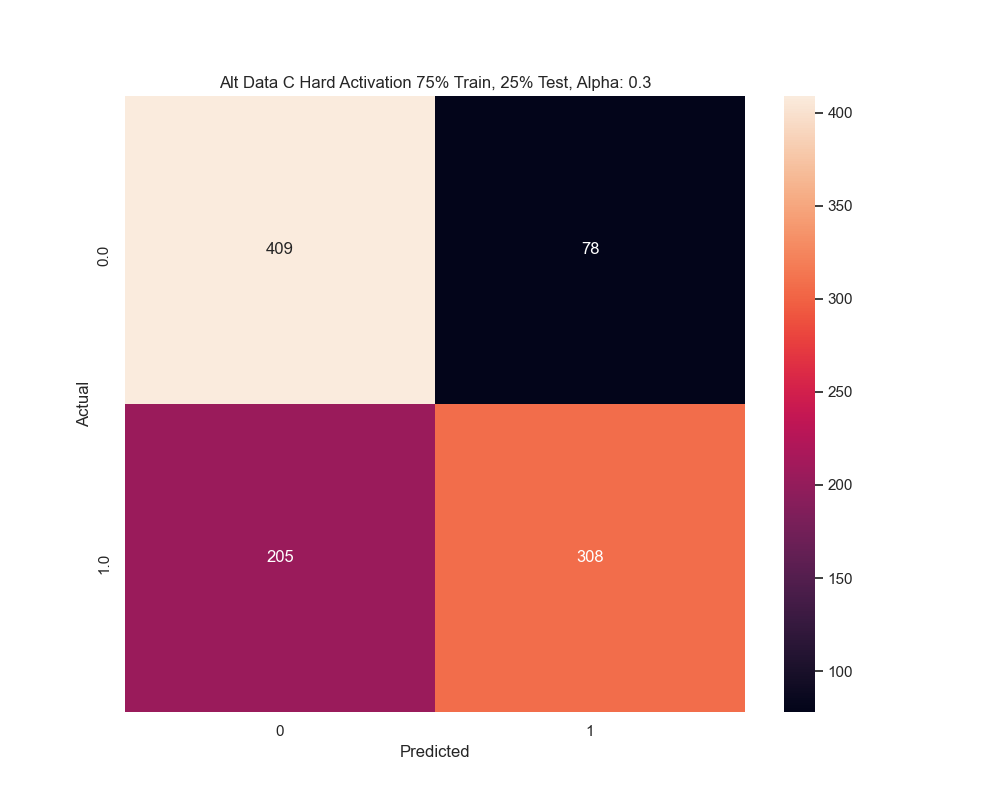
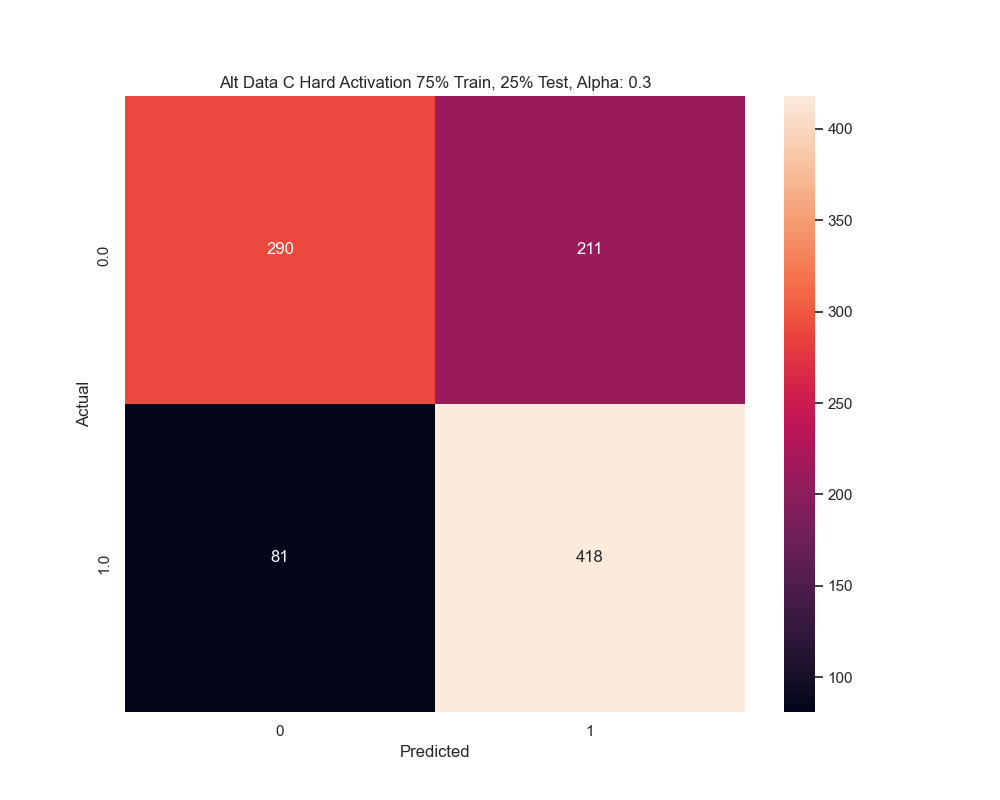
adding group c and alt c

diff --git a/assignment2.py b/assignment2.py
@@ -89,7 +89,7 @@ def train_hard(input_arr, desired_out, alpha, epsilon, max_iterations):
     y_w = random.uniform(-.5, .5)
     x_w = random.uniform(-.5, .5)
     b = random.uniform(-.5, .5)
-    #weights = [-.5, -.5, .5]
+    # weights = [-.5, -.5, .5]
     weights = [y_w, x_w, b]
     original_weights = weights
     train_error = 0
@@ -117,7 +117,7 @@ def train_soft(input_arr, desired_out, alpha, epsilon, max_iterations, gain):
     y_w = random.uniform(-.5, .5)
     x_w = random.uniform(-.5, .5)
     b = random.uniform(-.5, .5)
-    #weights = [-.5, -.5, .5]
+    # weights = [-.5, -.5, .5]
     weights = [y_w, x_w, b]
     original_weights = weights
     train_error = 0
@@ -337,26 +337,26 @@ def confusion_matrix(title, predicted, actual):
     # plt.close()
 
 
-groupa_hard_75, groupa_hard_75_train, groupa_hard_75_test, groupa_hard_75_out, train, test = normalize_and_train_hard(
-    "Group A", a_25, a_75, 0.3, epsilon_a, max_iterations, .25)
-groupa_hard_25, groupa_hard_25_train, groupa_hard_25_test, groupa_hard_25_out, train, test = normalize_and_train_hard(
-    "Group A", a_75, a_25, 0.3, epsilon_a, max_iterations, .75)
-pred, testOut = test_hard(
-    groupa_hard_75, groupa_hard_75_test, groupa_hard_75_out)
-graph_results("[Training] Group A Hard Activation 75% Train, 25% Test, Alpha: 0.3",
-              train, groupa_hard_75)
-graph_results("[Testing] Group A Hard Activation 75% Train, 25% Test, Alpha: 0.3",
-              test, groupa_hard_75)
-confusion_matrix(
-    "Group A Hard Activation 75% Train, 25% Test, Alpha: 0.3", pred, testOut)
-pred, testOut = test_hard(
-    groupa_hard_25, groupa_hard_25_test, groupa_hard_25_out)
-graph_results("[Training] Group A Hard Activation 25% Train, 75% Test, Alpha: 0.3",
-              train, groupa_hard_25)
-graph_results("[Testing] Group A Hard Activation 25% Train, 75% Test, Alpha: 0.3",
-              test, groupa_hard_25)
-confusion_matrix(
-    "Group A Hard Activation 25% Train, 75% Test, Alpha: 0.3", pred, testOut)
+# groupa_hard_75, groupa_hard_75_train, groupa_hard_75_test, groupa_hard_75_out, train, test = normalize_and_train_hard(
+#     "Group A", a_25, a_75, 0.3, epsilon_a, max_iterations, .25)
+# groupa_hard_25, groupa_hard_25_train, groupa_hard_25_test, groupa_hard_25_out, train, test = normalize_and_train_hard(
+#     "Group A", a_75, a_25, 0.3, epsilon_a, max_iterations, .75)
+# pred, testOut = test_hard(
+#     groupa_hard_75, groupa_hard_75_test, groupa_hard_75_out)
+# graph_results("[Training] Group A Hard Activation 75% Train, 25% Test, Alpha: 0.3",
+#               train, groupa_hard_75)
+# graph_results("[Testing] Group A Hard Activation 75% Train, 25% Test, Alpha: 0.3",
+#               test, groupa_hard_75)
+# confusion_matrix(
+#     "Group A Hard Activation 75% Train, 25% Test, Alpha: 0.3", pred, testOut)
+# pred, testOut = test_hard(
+#     groupa_hard_25, groupa_hard_25_test, groupa_hard_25_out)
+# graph_results("[Training] Group A Hard Activation 25% Train, 75% Test, Alpha: 0.3",
+#               train, groupa_hard_25)
+# graph_results("[Testing] Group A Hard Activation 25% Train, 75% Test, Alpha: 0.3",
+#               test, groupa_hard_25)
+# confusion_matrix(
+#     "Group A Hard Activation 25% Train, 75% Test, Alpha: 0.3", pred, testOut)
 
 # groupb_hard_75, groupb_hard_75_train, groupb_hard_75_test, groupb_hard_75_out, train, test = normalize_and_train_hard(
 #     "Group B", df_b, 0.3, epsilon_b, max_iterations, .25)
@@ -463,47 +463,47 @@ graph_results("[Testing] Group C Soft Activation 25% Train, 75% Test, Alpha: 0.1
 confusion_matrix(
     "Group C Soft Activation 25% Train, 75% Test, Alpha: 0.1, Gain: 0.1", pred, testOut)
 
-alta_hard_75, alta_hard_75_train, alta_hard_75_test, alta_hard_75_out, train, test = normalize_and_train_hard(
-    "Alt A", df_alt_a, 0.3, epsilon_a, max_iterations, .25)
-alta_hard_25, alta_hard_25_train, alta_hard_25_test, alta_hard_25_out, train, test = normalize_and_train_hard(
-    "Alt A", df_alt_a, 0.3, epsilon_a, max_iterations, .75)
-pred, testOut = test_hard(
-    alta_hard_75, alta_hard_75_test, alta_hard_75_out)
-graph_results("[Training] Alt Data A Hard Activation 75% Train, 25% Test, Alpha: 0.3",
-              train, alta_hard_75)
-graph_results("[Testing] Alt Data A Hard Activation 75% Train, 25% Test, Alpha: 0.3",
-              test, alta_hard_75)
-confusion_matrix(
-    "Alt Data A Hard Activation 75% Train, 25% Test, Alpha: 0.3", pred, testOut)
-pred, testOut = test_hard(
-    alta_hard_25, alta_hard_25_test, alta_hard_25_out)
-graph_results("[Training] Alt Data A Hard Activation 25% Train, 75% Test, Alpha: 0.3",
-              train, alta_hard_25)
-graph_results("[Testing] Alt Data A Hard Activation 25% Train, 75% Test, Alpha: 0.3",
-              test, alta_hard_25)
-confusion_matrix(
-    "Alt Data A Hard Activation 25% Train, 75% Test, Alpha: 0.3", pred, testOut)
+# alta_hard_75, alta_hard_75_train, alta_hard_75_test, alta_hard_75_out, train, test = normalize_and_train_hard(
+#     "Alt A", df_alt_a, 0.3, epsilon_a, max_iterations, .25)
+# alta_hard_25, alta_hard_25_train, alta_hard_25_test, alta_hard_25_out, train, test = normalize_and_train_hard(
+#     "Alt A", df_alt_a, 0.3, epsilon_a, max_iterations, .75)
+# pred, testOut = test_hard(
+#     alta_hard_75, alta_hard_75_test, alta_hard_75_out)
+# graph_results("[Training] Alt Data A Hard Activation 75% Train, 25% Test, Alpha: 0.3",
+#               train, alta_hard_75)
+# graph_results("[Testing] Alt Data A Hard Activation 75% Train, 25% Test, Alpha: 0.3",
+#               test, alta_hard_75)
+# confusion_matrix(
+#     "Alt Data A Hard Activation 75% Train, 25% Test, Alpha: 0.3", pred, testOut)
+# pred, testOut = test_hard(
+#     alta_hard_25, alta_hard_25_test, alta_hard_25_out)
+# graph_results("[Training] Alt Data A Hard Activation 25% Train, 75% Test, Alpha: 0.3",
+#               train, alta_hard_25)
+# graph_results("[Testing] Alt Data A Hard Activation 25% Train, 75% Test, Alpha: 0.3",
+#               test, alta_hard_25)
+# confusion_matrix(
+#     "Alt Data A Hard Activation 25% Train, 75% Test, Alpha: 0.3", pred, testOut)
 
-altb_hard_75, altb_hard_75_train, altb_hard_75_test, altb_hard_75_out, train, test = normalize_and_train_hard(
-    "Alt B", df_alt_b, 0.3, epsilon_b, max_iterations, .25)
-altb_hard_25, altb_hard_25_train, altb_hard_25_test, altb_hard_25_out, train, test = normalize_and_train_hard(
-    "Alt B", df_alt_b, 0.3, epsilon_b, max_iterations, .75)
-pred, testOut = test_hard(
-    altb_hard_75, altb_hard_75_test, altb_hard_75_out)
-graph_results("[Training] Alt Data B Hard Activation 75% Train, 25% Test, Alpha: 0.3",
-              train, altb_hard_75)
-graph_results("[Testing] Alt Data B Hard Activation 75% Train, 25% Test, Alpha: 0.3",
-              test, altb_hard_75)
-confusion_matrix(
-    "Alt Data B Hard Activation 75% Train, 25% Test, Alpha: 0.3", pred, testOut)
-pred, testOut = test_hard(
-    altb_hard_25, altb_hard_25_test, altb_hard_25_out)
-graph_results("[Training] Alt Data B Hard Activation 25% Train, 75% Test, Alpha: 0.3",
-              train, altb_hard_25)
-graph_results("[Testing] Alt Data B Hard Activation 25% Train, 75% Test, Alpha: 0.3",
-              test, altb_hard_25)
-confusion_matrix(
-    "Alt Data B Hard Activation 25% Train, 75% Test, Alpha: 0.3", pred, testOut)
+# altb_hard_75, altb_hard_75_train, altb_hard_75_test, altb_hard_75_out, train, test = normalize_and_train_hard(
+#     "Alt B", df_alt_b, 0.3, epsilon_b, max_iterations, .25)
+# altb_hard_25, altb_hard_25_train, altb_hard_25_test, altb_hard_25_out, train, test = normalize_and_train_hard(
+#     "Alt B", df_alt_b, 0.3, epsilon_b, max_iterations, .75)
+# pred, testOut = test_hard(
+#     altb_hard_75, altb_hard_75_test, altb_hard_75_out)
+# graph_results("[Training] Alt Data B Hard Activation 75% Train, 25% Test, Alpha: 0.3",
+#               train, altb_hard_75)
+# graph_results("[Testing] Alt Data B Hard Activation 75% Train, 25% Test, Alpha: 0.3",
+#               test, altb_hard_75)
+# confusion_matrix(
+#     "Alt Data B Hard Activation 75% Train, 25% Test, Alpha: 0.3", pred, testOut)
+# pred, testOut = test_hard(
+#     altb_hard_25, altb_hard_25_test, altb_hard_25_out)
+# graph_results("[Training] Alt Data B Hard Activation 25% Train, 75% Test, Alpha: 0.3",
+#               train, altb_hard_25)
+# graph_results("[Testing] Alt Data B Hard Activation 25% Train, 75% Test, Alpha: 0.3",
+#               test, altb_hard_25)
+# confusion_matrix(
+#     "Alt Data B Hard Activation 25% Train, 75% Test, Alpha: 0.3", pred, testOut)
 
 altc_hard_75, altc_hard_75_train, altc_hard_75_test, altc_hard_75_out, train, test = normalize_and_train_hard(
     "Alt C", alt_c_25, alt_c_75, 0.3, epsilon_c, max_iterations, .25)
@@ -526,47 +526,47 @@ graph_results("[Testing] Alt Data C Hard Activation 25% Train, 75% Test, Alpha: 
 confusion_matrix(
     "Alt Data C Hard Activation 25% Train, 75% Test, Alpha: 0.3", pred, testOut)
 
-alta_soft_75, alta_soft_75_train, alta_soft_75_test, alta_soft_75_out, gainA_75, train, test = normalize_and_train_soft(
-    "AltA", df_alt_a, 0.3, epsilon_a, max_iterations, .2, .25)
-alta_soft_25, alta_soft_25_train, alta_soft_25_test, alta_soft_25_out, gainB_25, train, test = normalize_and_train_soft(
-    "AltA", df_alt_a, 0.3, epsilon_a, max_iterations, .2, .75)
-pred, testOut = test_soft(
-    alta_soft_75, alta_soft_75_test, alta_soft_75_out, gainA_75)
-graph_results("[Training] Alt Data A Soft Activation 75% Train, 25% Test, Alpha: 0.3, Gain: 0.2",
-              train, alta_soft_75)
-graph_results("[Testing] Alt Data A Soft Activation 75% Train, 25% Test, Alpha: 0.3, Gain: 0.2",
-              test, alta_soft_75)
-confusion_matrix(
-    "Alt Data A Soft Activation 75% Train, 25% Test, Alpha: 0.3, Gain: 0.2", pred, testOut)
-pred, testOut = test_soft(
-    alta_soft_25, alta_soft_25_test, alta_soft_25_out, gainB_25)
-graph_results("[Training] Alt Data A Soft Activation 25% Train, 75% Test, Alpha: 0.3, Gain: 0.2",
-              train, alta_soft_25)
-graph_results("[Testing] Alt Data A Soft Activation 25% Train, 75% Test, Alpha: 0.3, Gain: 0.2",
-              test, alta_soft_25)
-confusion_matrix(
-    "Alt Data A Soft Activation 25% Train, 75% Test, Alpha: 0.3, Gain: 0.2", pred, testOut)
+# alta_soft_75, alta_soft_75_train, alta_soft_75_test, alta_soft_75_out, gainA_75, train, test = normalize_and_train_soft(
+#     "AltA", df_alt_a, 0.3, epsilon_a, max_iterations, .2, .25)
+# alta_soft_25, alta_soft_25_train, alta_soft_25_test, alta_soft_25_out, gainB_25, train, test = normalize_and_train_soft(
+#     "AltA", df_alt_a, 0.3, epsilon_a, max_iterations, .2, .75)
+# pred, testOut = test_soft(
+#     alta_soft_75, alta_soft_75_test, alta_soft_75_out, gainA_75)
+# graph_results("[Training] Alt Data A Soft Activation 75% Train, 25% Test, Alpha: 0.3, Gain: 0.2",
+#               train, alta_soft_75)
+# graph_results("[Testing] Alt Data A Soft Activation 75% Train, 25% Test, Alpha: 0.3, Gain: 0.2",
+#               test, alta_soft_75)
+# confusion_matrix(
+#     "Alt Data A Soft Activation 75% Train, 25% Test, Alpha: 0.3, Gain: 0.2", pred, testOut)
+# pred, testOut = test_soft(
+#     alta_soft_25, alta_soft_25_test, alta_soft_25_out, gainB_25)
+# graph_results("[Training] Alt Data A Soft Activation 25% Train, 75% Test, Alpha: 0.3, Gain: 0.2",
+#               train, alta_soft_25)
+# graph_results("[Testing] Alt Data A Soft Activation 25% Train, 75% Test, Alpha: 0.3, Gain: 0.2",
+#               test, alta_soft_25)
+# confusion_matrix(
+#     "Alt Data A Soft Activation 25% Train, 75% Test, Alpha: 0.3, Gain: 0.2", pred, testOut)
 
-altb_soft_75, altb_soft_75_train, altb_soft_75_test, altb_soft_75_out, gainB_75, train, test = normalize_and_train_soft(
-    "AltB", df_alt_b, 0.3, epsilon_b, max_iterations, .2, .25)
-altb_soft_25, altb_soft_25_train, altb_soft_25_test, altb_soft_25_out, gainB_25, train, test = normalize_and_train_soft(
-    "AltB", df_alt_b, 0.3, epsilon_b, max_iterations, .2, .75)
-pred, testOut = test_soft(
-    altb_soft_75, altb_soft_75_test, altb_soft_75_out, gainB_75)
-graph_results("[Training] Alt Data B Soft Activation 75% Train, 25% Test, Alpha: 0.3, Gain: 0.2",
-              train, altb_soft_75)
-graph_results("[Testing] Alt Data B Soft Activation 75% Train, 25% Test, Alpha: 0.3, Gain: 0.2",
-              test, altb_soft_75)
-confusion_matrix(
-    "Alt Data B Soft Activation 75% Train, 25% Test, Alpha: 0.3, Gain: 0.2", pred, testOut)
-pred, testOut = test_soft(
-    altb_soft_25, altb_soft_25_test, altb_soft_25_out, gainB_25)
-graph_results("[Training] Alt Data B Soft Activation 25% Train, 25% Test, Alpha: 0.3, Gain: 0.2",
-              train, altb_soft_25)
-graph_results("[Testing] Alt Data B Soft Activation 25% Train, 25% Test, Alpha: 0.3, Gain: 0.2",
-              test, altb_soft_25)
-confusion_matrix(
-    "Alt Data B Soft Activation 25% Train, 75% Test, Alpha: 0.3, Gain: 0.2", pred, testOut)
+# altb_soft_75, altb_soft_75_train, altb_soft_75_test, altb_soft_75_out, gainB_75, train, test = normalize_and_train_soft(
+#     "AltB", df_alt_b, 0.3, epsilon_b, max_iterations, .2, .25)
+# altb_soft_25, altb_soft_25_train, altb_soft_25_test, altb_soft_25_out, gainB_25, train, test = normalize_and_train_soft(
+#     "AltB", df_alt_b, 0.3, epsilon_b, max_iterations, .2, .75)
+# pred, testOut = test_soft(
+#     altb_soft_75, altb_soft_75_test, altb_soft_75_out, gainB_75)
+# graph_results("[Training] Alt Data B Soft Activation 75% Train, 25% Test, Alpha: 0.3, Gain: 0.2",
+#               train, altb_soft_75)
+# graph_results("[Testing] Alt Data B Soft Activation 75% Train, 25% Test, Alpha: 0.3, Gain: 0.2",
+#               test, altb_soft_75)
+# confusion_matrix(
+#     "Alt Data B Soft Activation 75% Train, 25% Test, Alpha: 0.3, Gain: 0.2", pred, testOut)
+# pred, testOut = test_soft(
+#     altb_soft_25, altb_soft_25_test, altb_soft_25_out, gainB_25)
+# graph_results("[Training] Alt Data B Soft Activation 25% Train, 25% Test, Alpha: 0.3, Gain: 0.2",
+#               train, altb_soft_25)
+# graph_results("[Testing] Alt Data B Soft Activation 25% Train, 25% Test, Alpha: 0.3, Gain: 0.2",
+#               test, altb_soft_25)
+# confusion_matrix(
+#     "Alt Data B Soft Activation 25% Train, 75% Test, Alpha: 0.3, Gain: 0.2", pred, testOut)
 
 altc_soft_75, altc_soft_75_train, altc_soft_75_test, altc_soft_75_out, gainC_75, train, test = normalize_and_train_soft(
     "AltC", alt_c_25, alt_c_75, 0.3, epsilon_c, max_iterations, .2, .25)
